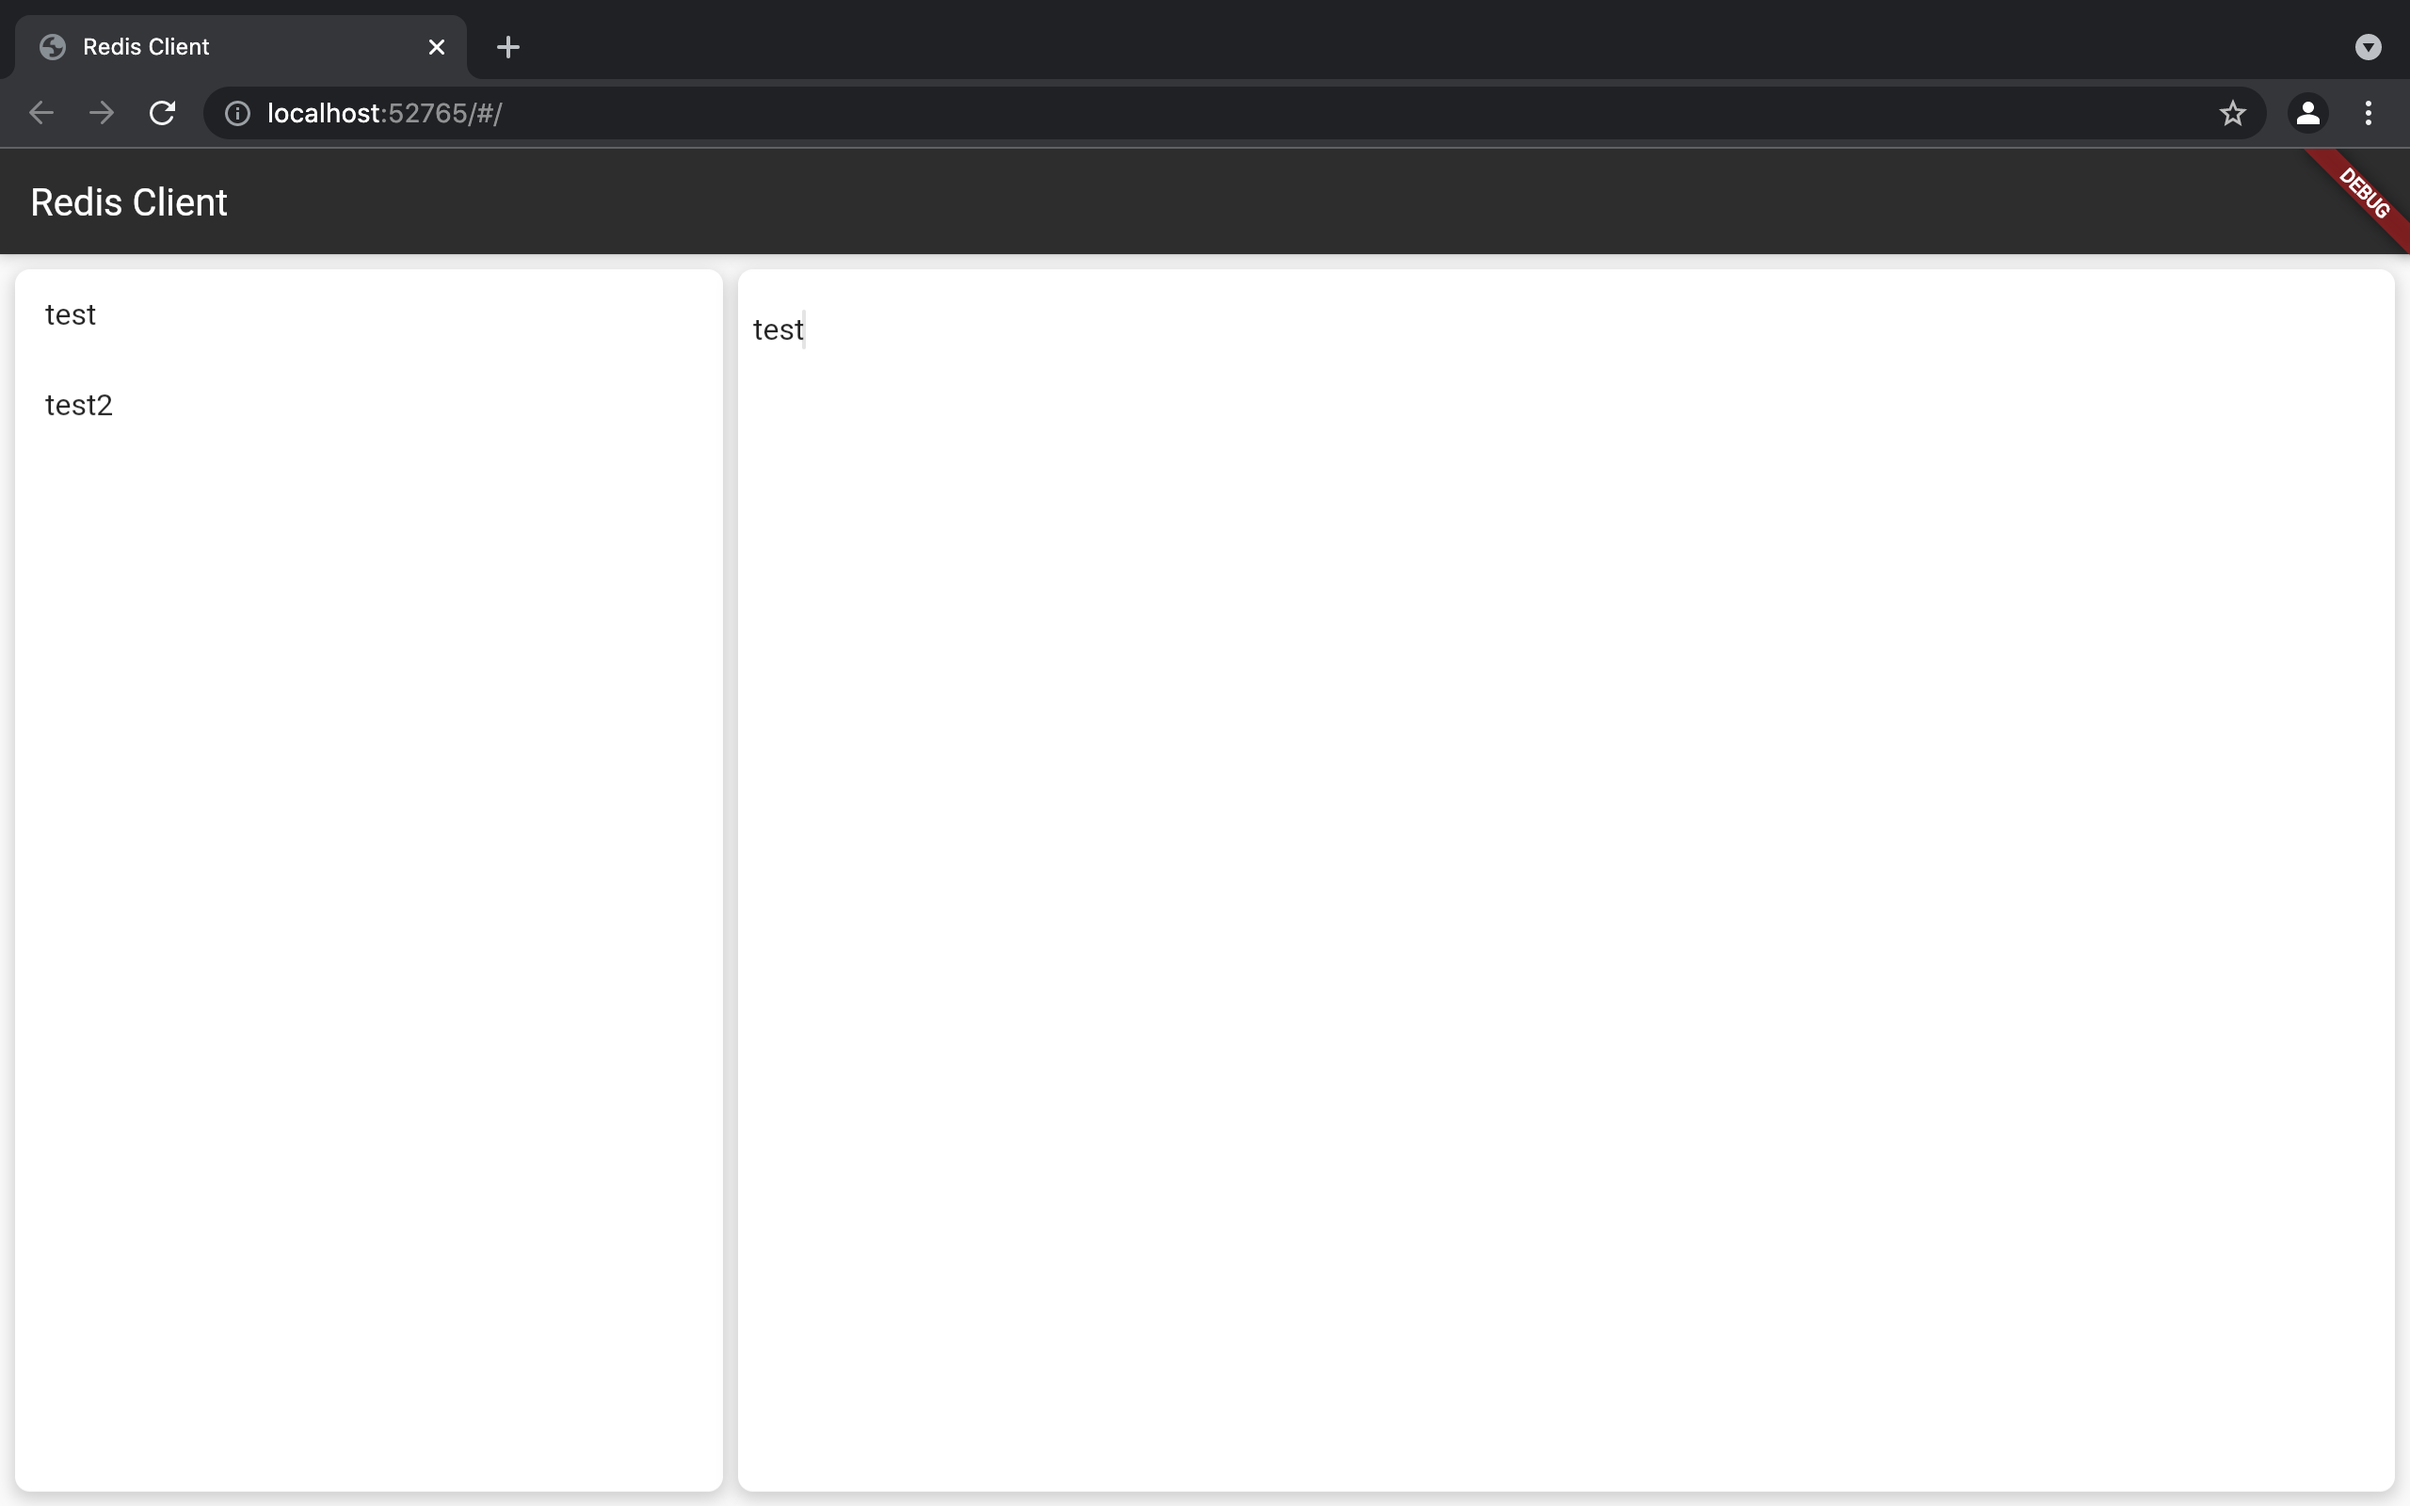
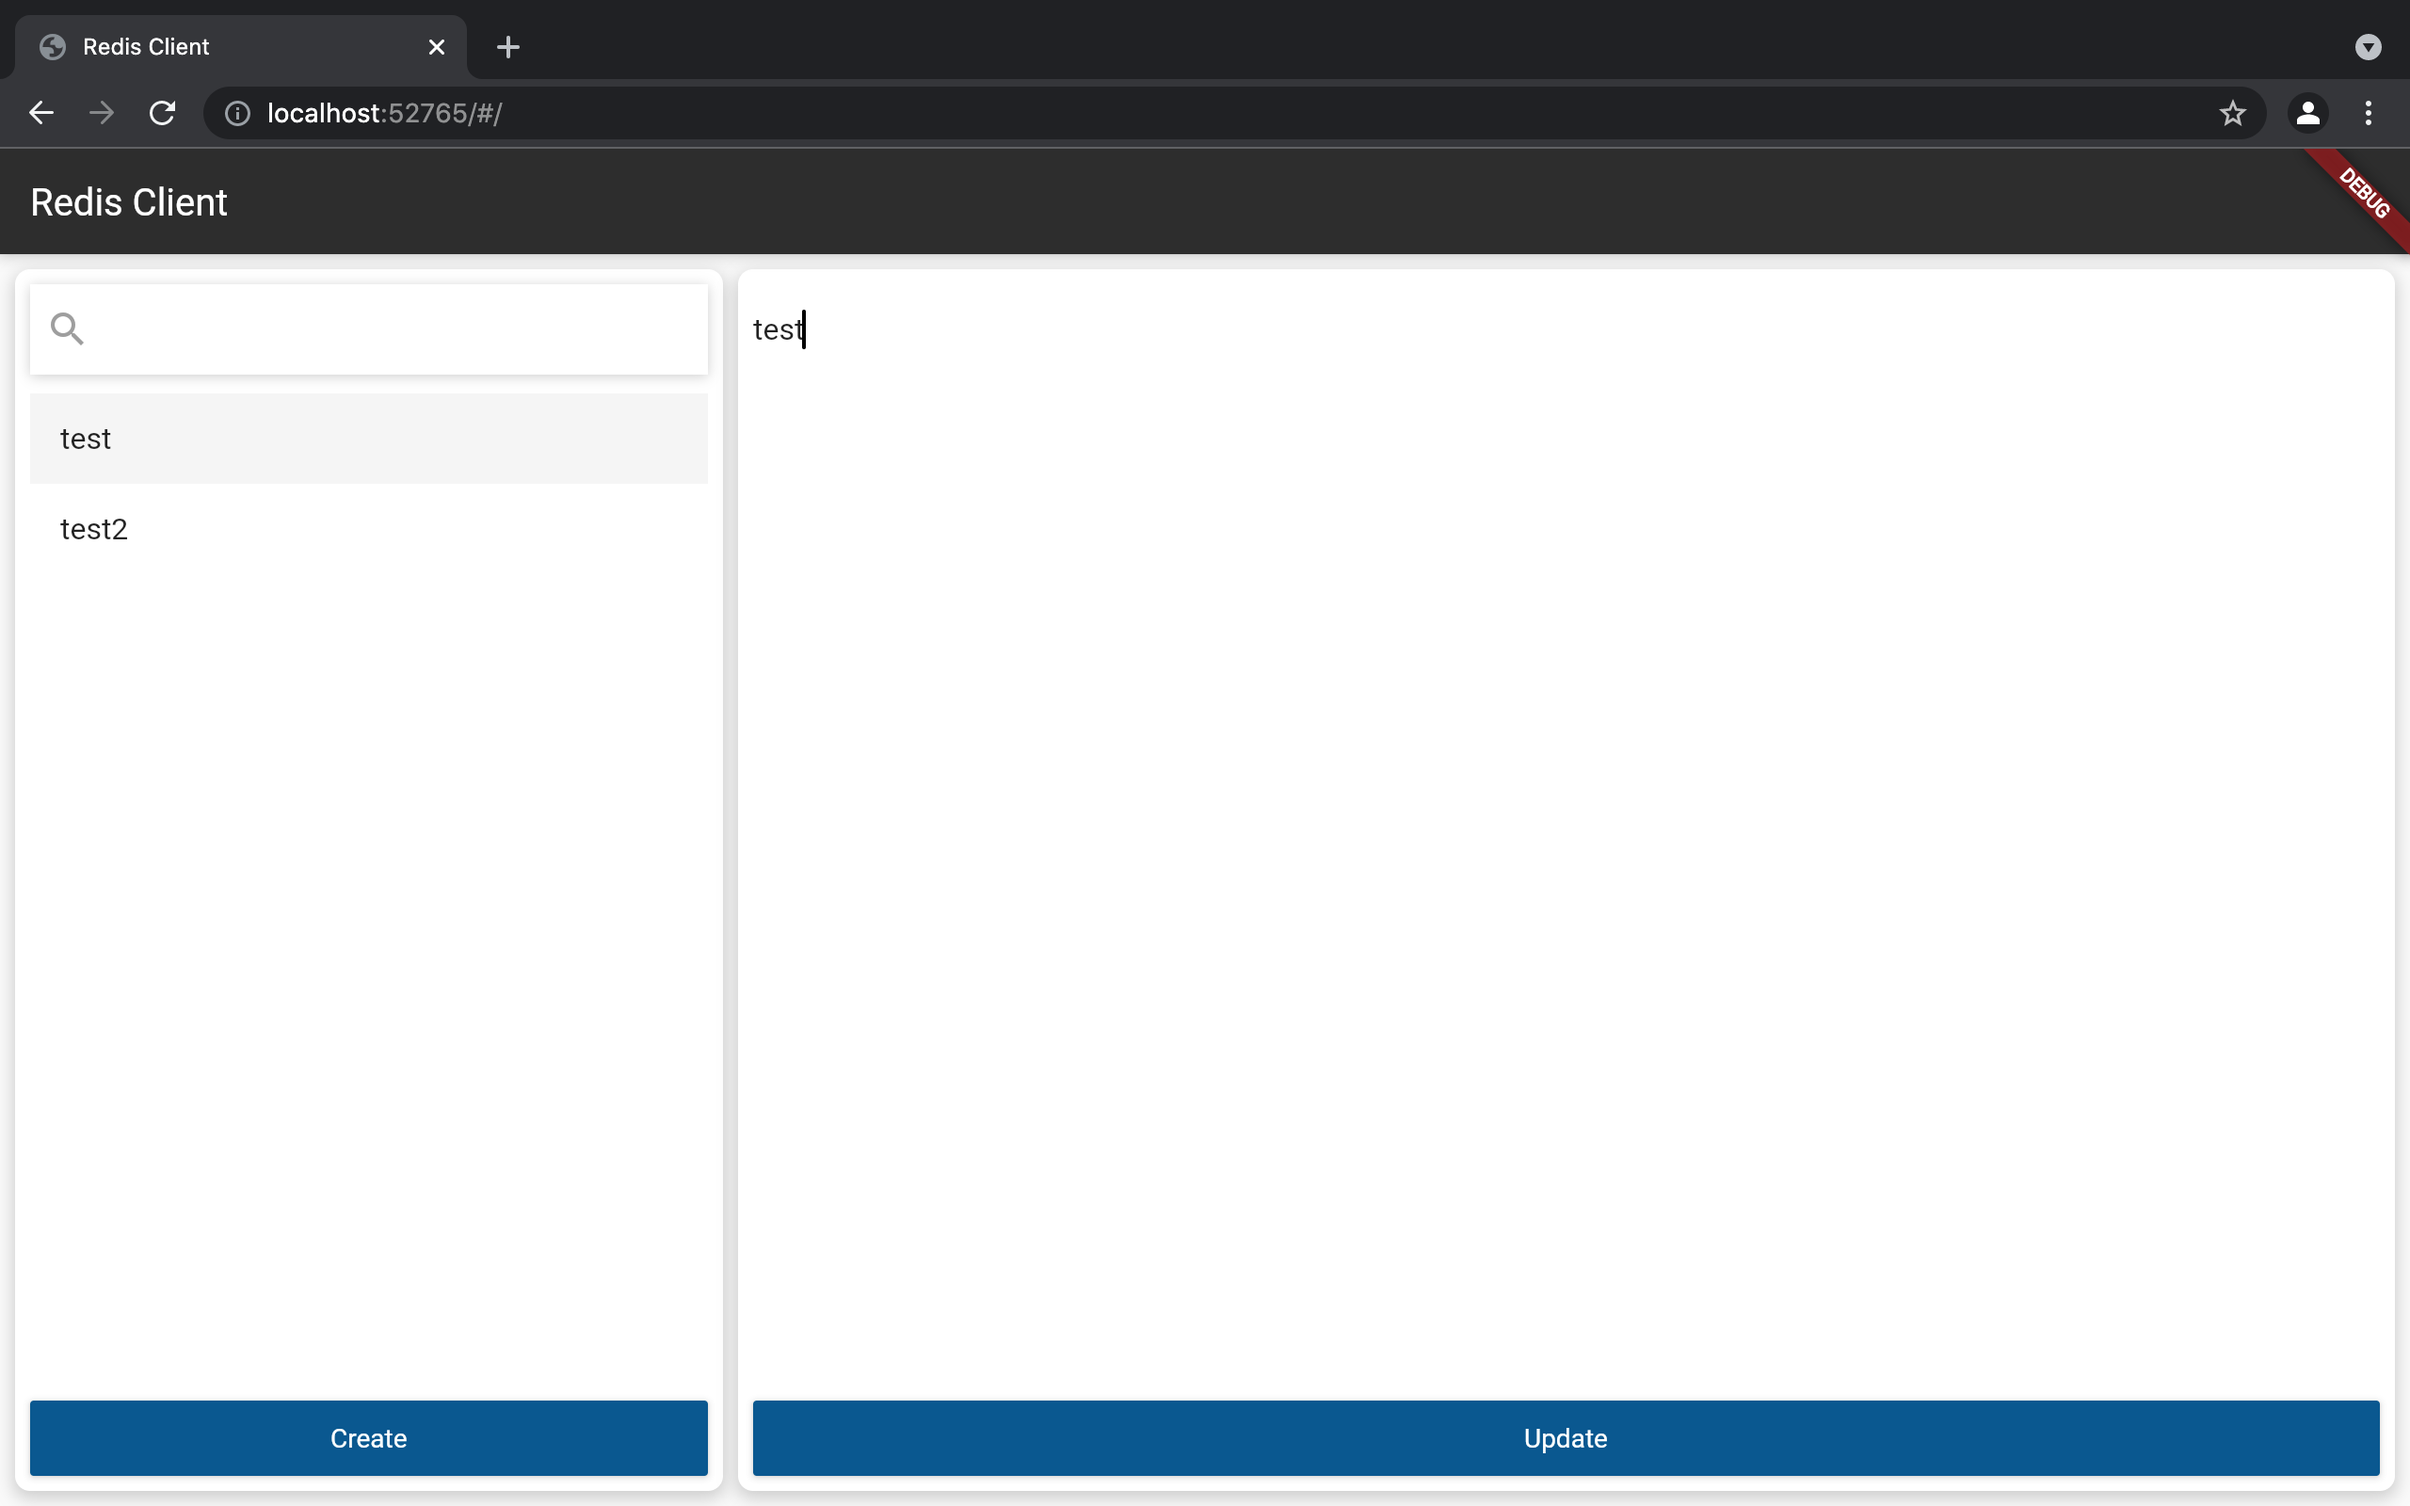
feature: add search bar and buttons for creating and updating key

Changed region(s): [[0.0, 0.9062, 1.0, 1.0], [0.0312, 0.3438, 0.0625, 0.375]]

diff --git a/redis_client/lib/component/redis_key_browser.dart b/redis_client/lib/component/redis_key_browser.dart
@@ -14,6 +14,13 @@ class RedisKeyBrowser extends StatefulWidget {
 
 class _RedisKeyBrowserState extends State<RedisKeyBrowser> {
   List<String> keys = [];
+  int selectedIndex = -1;
+
+  void updateSelectedItem(int index) {
+    setState(() {
+      selectedIndex = index;
+    });
+  }
 
   @override
   Widget build(BuildContext context) {
@@ -37,6 +44,7 @@ class _RedisKeyBrowserState extends State<RedisKeyBrowser> {
       child: Padding(
         padding: EdgeInsets.fromLTRB(8.0, 8.0, 0.0, 8.0),
         child: Container(
+          padding: EdgeInsets.all(8),
           decoration: BoxDecoration(
             color: Theme.of(context).colorScheme.background,
             borderRadius: BorderRadius.circular(8.0),
@@ -49,23 +57,66 @@ class _RedisKeyBrowserState extends State<RedisKeyBrowser> {
               ),
             ],
           ),
-          child: ListView.builder(
-            itemCount: keys.length,
-            itemBuilder: (context, index) {
-              return Material(
-                  color: Colors.transparent,
-                  borderRadius: BorderRadius.circular(8.0),
-                  child: InkWell(
-                    customBorder: RoundedRectangleBorder(
-                      borderRadius: BorderRadius.circular(8.0),
+          child: Column(
+            children: [
+              Container(
+                child: TextField(
+                  decoration: InputDecoration(
+                    fillColor: Colors.white,
+                    filled: true,
+                    border: InputBorder.none,
+                    prefixIcon: Icon(Icons.search, color: Colors.grey),
+                  ),
+                  cursorColor: Colors.black,
+                ),
+                decoration: BoxDecoration(
+                  boxShadow: [
+                    BoxShadow(
+                      color: Colors.grey.withOpacity(0.5),
+                      blurRadius: 5,
+                      offset: const Offset(0, 1),
                     ),
-                    child: ListTile(
-                      title: Text(keys[index]),
-                    ),
-                    onTap: () => BlocProvider.of<RedisClientBloc>(context)
-                        .add(GetRedisKeyType(keys[index])),
-                  ));
-            },
+                  ],
+                ),
+              ),
+              SizedBox(
+                height: 10,
+              ),
+              Expanded(
+                child: ListView.builder(
+                  itemCount: keys.length,
+                  itemBuilder: (context, index) {
+                    return Material(
+                      color: index == selectedIndex
+                          ? Theme.of(context).colorScheme.primaryVariant
+                          : Theme.of(context).colorScheme.primary,
+                      child: Ink(
+                        child: ListTile(
+                          title: Text(keys[index]),
+                          hoverColor:
+                              Theme.of(context).colorScheme.primaryVariant,
+                          onTap: () {
+                            BlocProvider.of<RedisClientBloc>(context)
+                                .add(GetRedisKeyType(keys[index]));
+                            updateSelectedItem(index);
+                          },
+                        ),
+                      ),
+                    );
+                  },
+                ),
+              ),
+              MaterialButton(
+                padding: EdgeInsets.all(20),
+                minWidth: MediaQuery.of(context).size.width,
+                child: Text("Create"),
+                color: Theme.of(context).buttonColor,
+                textColor: Theme.of(context).colorScheme.primary,
+                onPressed: () {
+                  debugPrint("create");
+                },
+              ),
+            ],
           ),
         ),
       ),

diff --git a/redis_client/lib/component/redis_string_container.dart b/redis_client/lib/component/redis_string_container.dart
@@ -12,15 +12,32 @@ class RedisStringContainer extends StatelessWidget {
   Widget build(BuildContext context) {
     return Container(
       padding: EdgeInsets.all(8),
-      child: TextField(
-        controller: controller,
-        focusNode: focusNode,
-        cursorColor: Colors.black,
-        keyboardType: TextInputType.multiline,
-        maxLines: null,
-        decoration: InputDecoration(
-          border: InputBorder.none,
-        ),
+      child: Column(
+        children: [
+          Expanded(
+            flex: 9,
+            child: TextField(
+              controller: controller,
+              focusNode: focusNode,
+              cursorColor: Colors.black,
+              keyboardType: TextInputType.multiline,
+              maxLines: null,
+              decoration: InputDecoration(
+                border: InputBorder.none,
+              ),
+            ),
+          ),
+          MaterialButton(
+            padding: EdgeInsets.all(20),
+            minWidth: MediaQuery.of(context).size.width,
+            child: Text("Update"),
+            color: Theme.of(context).buttonColor,
+            textColor: Theme.of(context).colorScheme.primary,
+            onPressed: () {
+              debugPrint("submit");
+            },
+          )
+        ],
       ),
     );
   }

diff --git a/redis_client/lib/theme/color.dart b/redis_client/lib/theme/color.dart
@@ -1,6 +1,7 @@
 import 'package:flutter/material.dart';
 
 final Color primary = Color.fromRGBO(255, 255, 255, 1);
-final Color primaryVariant = Color.fromRGBO(255, 247, 247, 1);
+final Color primaryVariant = Color.fromRGBO(245, 245, 245, 1);
 final Color secondary = Color.fromRGBO(45, 45, 45, 1);
 final Color secondaryVariant = Color.fromRGBO(187, 222, 214, 1);
+final Color buttonColor = Color.fromRGBO(0, 87, 146, 1);

diff --git a/redis_client/lib/theme/theme.dart b/redis_client/lib/theme/theme.dart
@@ -3,6 +3,7 @@ import 'package:redis_client/theme/color.dart';
 
 ThemeData buildRedisClientTheme(ThemeData baseTheme) {
   return baseTheme.copyWith(
+    buttonColor: buttonColor,
     colorScheme: baseTheme.colorScheme.copyWith(
       primary: primary,
       primaryVariant: primaryVariant,
